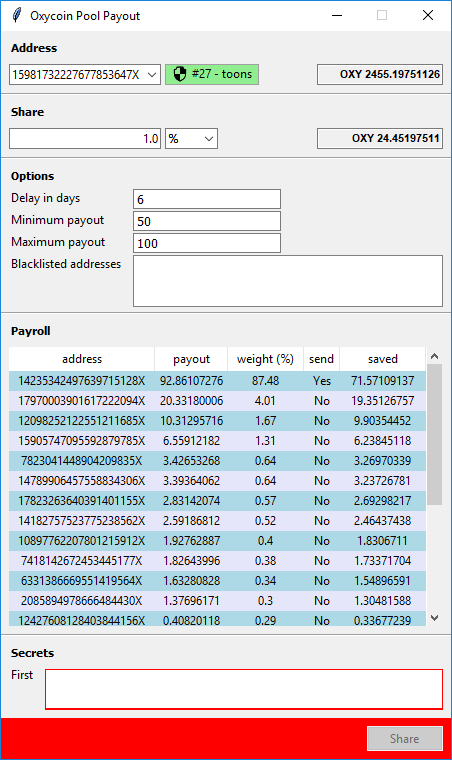
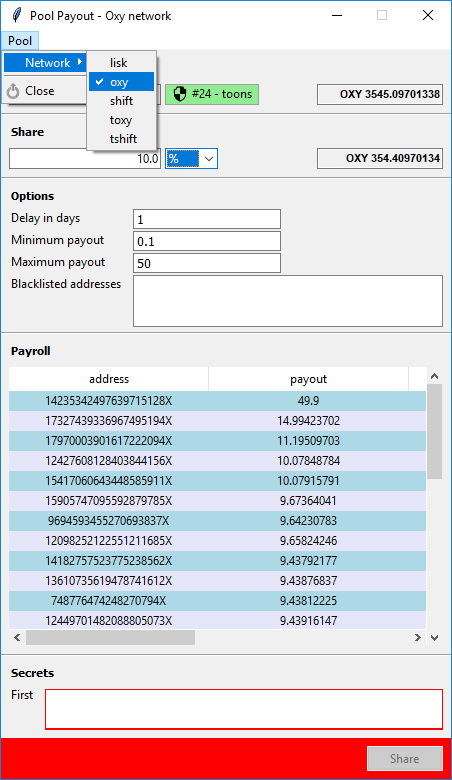
main ui tweak

diff --git a/pyoxy-ui.py b/pyoxy-ui.py
@@ -159,14 +159,6 @@ if __name__ == "__main__":
 			toplevel["background"] = "red"
 			button.state("disabled")
 
-	__heartbeat = heartBeat()
-
-	def exit():
-		options.saveConf()
-		__heartbeat.set()
-		__heartbeat.lock()
-		sys.exit()
-
 	def useNetwork(network):
 		try:
 			api.use(network)
@@ -174,14 +166,19 @@ if __name__ == "__main__":
 			pass
 		else:
 			toplevel.tk.setvar("ui.network", network)
-
+			address.wallet.set("")
 			combovalues = amount.combo["values"]
 			amount.combo.configure(values=(cfg.symbol, ) + combovalues[1:])
 			if amount.what.get() not in amount.combo["values"]:
 				amount.what.set(cfg.symbol)
 			else:
 				amount.what.set(amount.what.get())
-			toplevel.title("%s Pool Payout"%network.capitalize())
+			toplevel.title("Pool Payout - %s network"%network.capitalize())
+
+	def exit():
+		options.saveConf()
+		__heartbeat.set()
+		sys.exit()
 
 	# menu widget
 	menubar = widgets.yawTtk.Menu(root)
@@ -192,13 +189,14 @@ if __name__ == "__main__":
 	networkmenu.invoke(0)
 	mainmenu.add("cascade", ulabel="_Network", menu=networkmenu)
 	mainmenu.add("separator")
-	mainmenu.add("command", compound="left", image=_exit, ulabel="_Close", command=sys.exit)
+	mainmenu.add("command", compound="left", image=_exit, ulabel="_Close", command=exit)
 	menubar.add("cascade", ulabel="_Pool", menu=mainmenu)
 	toplevel.configure(menu=menubar)
 
-	toplevel.protocol('WM_DELETE_WINDOW', sys.exit)
+	toplevel.protocol('WM_DELETE_WINDOW', exit)
 	toplevel.minsize(450, int(450*1.618033989))
 	toplevel.maxsize(450, int(450*1.618033989))
 	toplevel.resizable(False, False)
 	toplevel.deiconify()
+	__heartbeat = heartBeat()
 	toplevel.mainloop()
